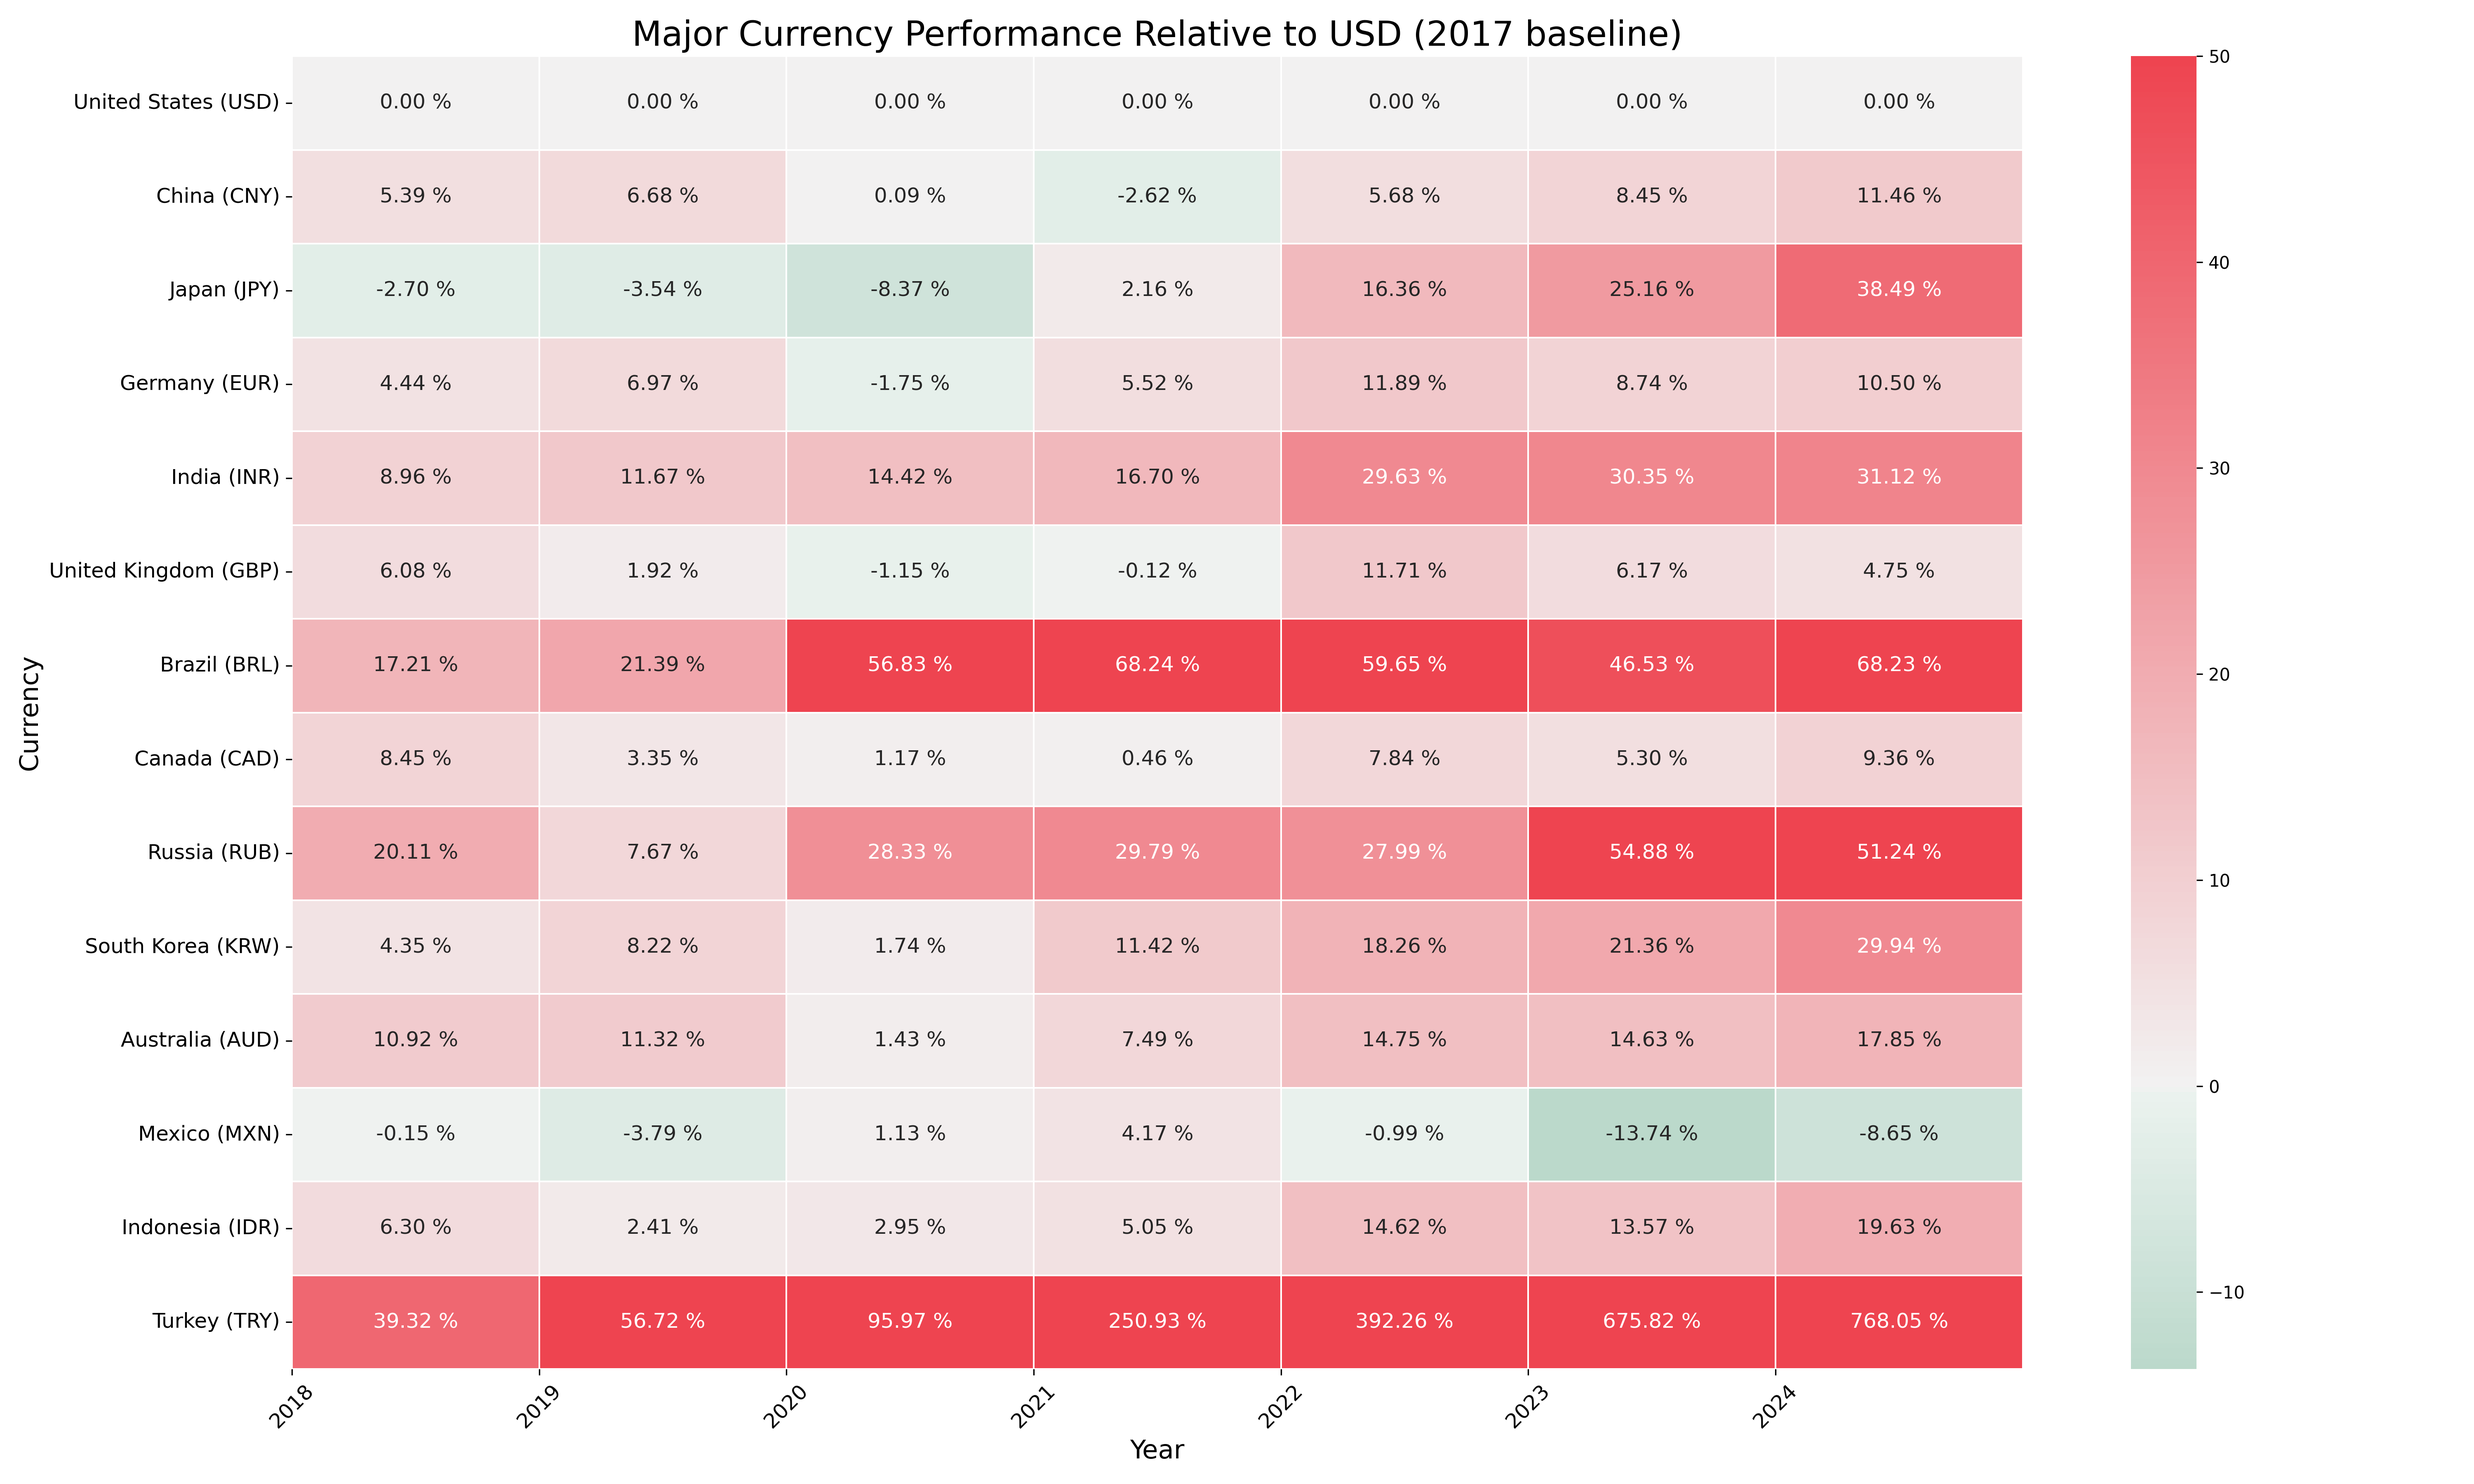
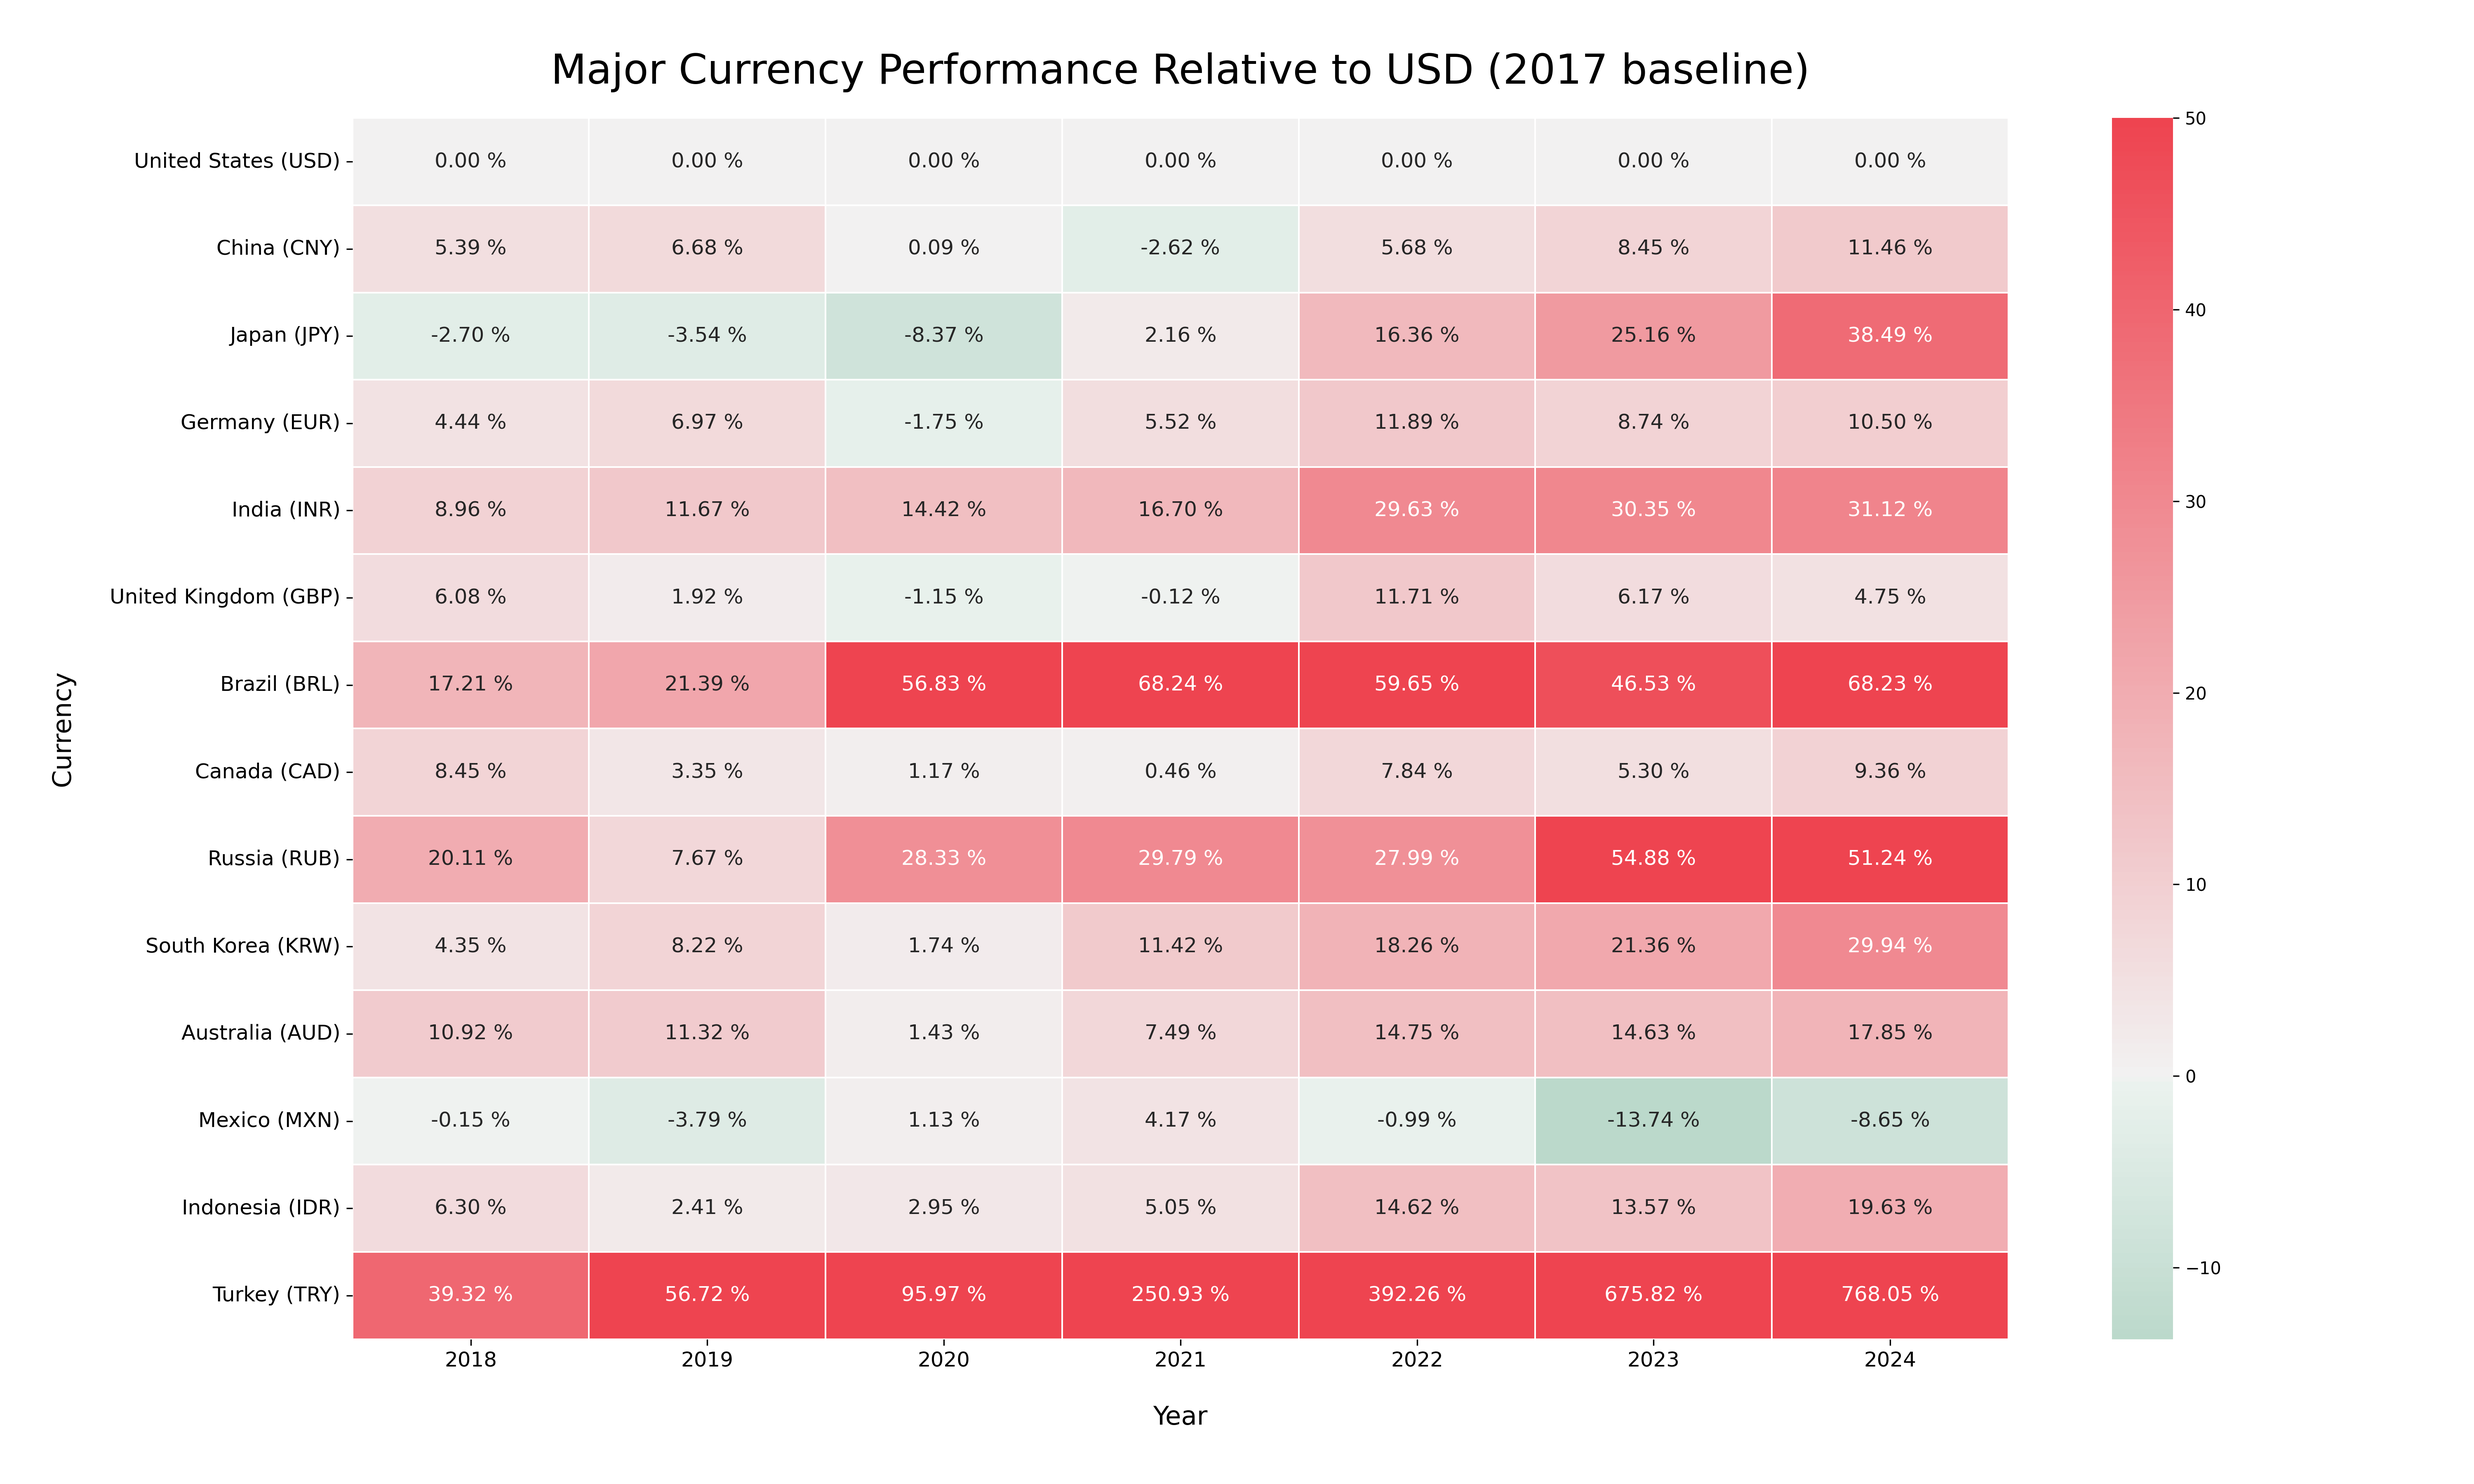
Functional

diff --git a/.history/visualize_data_20240723085457.py b/.history/visualize_data_20240723085457.py
@@ -51,11 +51,11 @@ def visualize_performance():
     cmap = sns.diverging_palette(150, 10, s=80, l=55, n=9, as_cmap=True)  # Green and Red
     sns.heatmap(df_filtered_values, annot=df_filtered, cmap=cmap, fmt="", linewidths=.5, cbar=True, annot_kws={"size": 12}, center=0, vmax=50)
     plt.title('Major Currency Performance Relative to USD (2017 baseline)', fontsize=24, pad=20)
-    plt.xlabel('Year', fontsize=15, labelpad=20)
-    plt.ylabel('Currency', fontsize=15, labelpad=20)
-    plt.xticks(ticks=[i + 0.5 for i in range(len(df_filtered.columns))], labels=[d[:4] for d in df_filtered.columns], rotation=0, ha='center', fontsize=12)
+    plt.xlabel('Year', fontsize=15)
+    plt.ylabel('Currency', fontsize=15)
+    plt.xticks(ticks=range(len(df_filtered.columns)), labels=[d[:4] for d in df_filtered.columns], rotation=0, ha='center', fontsize=12)
     plt.yticks(fontsize=12)
-    plt.tight_layout(pad=3.0)
+    plt.tight_layout()
     plt.savefig('major_currency_performance_matrix.png', dpi=300)
     plt.show()
 
@@ -64,5 +64,4 @@ def main():
 
 if __name__ == "__main__":
     main()
-
 
